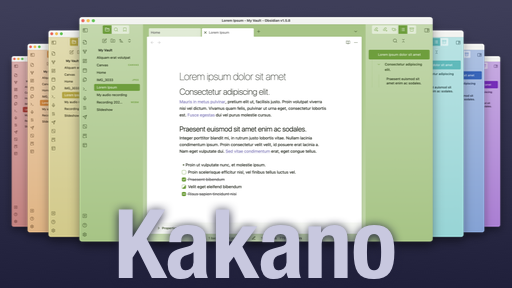
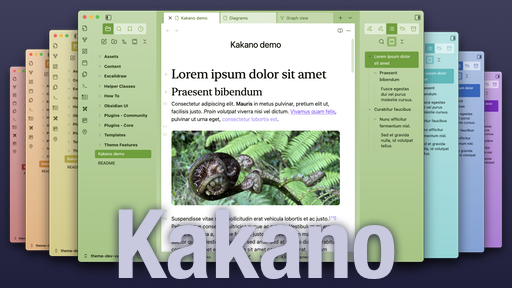
Improve screenshot and hero images

diff --git a/README.md b/README.md
@@ -1,8 +1,8 @@
 # Kakano
 
-![Obsidian theme with a smooth gradient background derived from a user-selected base color. Image shows six screenshots with differently-colored backgrounds.](/hero.png)
+![Kakano. A colorful, clean, and easy-to-use theme. Seven screenshots with differently-colored backgrounds.](/hero.png)
 
-Kakano is an [Obsidian](https://obsidian.md/) theme with a smooth gradient background derived from a user-selected base color.
+Bring some color to your desktop. Kakano lets you choose a base color, and generates a clean consistent interface with a smooth gradient background. Compatible with a wide range of plugins, and full of little touches to improve your [Obsidian](https://obsidian.md/) experience.
 
 <div align="center">
   <a href="https://www.buymeacoffee.com/isaacfreeman">
@@ -38,6 +38,7 @@ Kakano is an [Obsidian](https://obsidian.md/) theme with a smooth gradient backg
   - [Roadmap](#roadmap)
   - [About](#about)
   - [Credits](#credits)
+  - [Feedback](#feedback)
   - [License](#license)
   - [Disclaimer](#disclaimer)
 
@@ -60,13 +61,13 @@ Kakano is an [Obsidian](https://obsidian.md/) theme with a smooth gradient backg
 ## Principles
 
 - **Strong color**
-  Users should be able to easily select a color for each vault and have the theme generate shades and gradients automatically.
+  When Obsidian is at the core of your workflow, you want to be able to quickly locate its window. Kakano's design begins with the ability to choose a base color for the background so Obsidian stands out visually from other windows. If you have different vaults for different areas of your life, you can give them a strong color distinction. Kakano generates shades and gradients of the base color automatically.
 - **Help new users**
-  Obsidian can be intimidating for new users. I think a good way to help with this is to clarify which parts of the window are user content (white background, strong contrast) and which are navigation and other controls (colored background, lower contrast).
+  Obsidian can be intimidating for new users. I think a good way to help with this is to clarify which parts of the window are your content (white background, strong contrast) and which are navigation and other controls (colored background, lower contrast). Making Obsidian easier for new users also reduces cognitive load and distraction for more experienced users.
 - **Standardise controls**
   Obsidian’s exuberant plugin scene is fantastic, but it also means that there’s a lot of inconsistency in the design of controls and modals – even between core plugins. I’ve tried to find ways to make similar controls have similar appearance. Likewise, I’ve aimed to follow conventions from the underlying OS, such as having close controls on the left on macOS.
 - **Be opinionated enough**
-  I’d like Kakano to provide a great user experience by default without the user having to make any choices beyond their base color. It has settings, but I want each one to be there because different users genuinely have different needs, not just because I failed to make a decision.
+  Kakano is intended to be a theme, not a build-your-own-theme kit. I've aimed to provide a great user experience, and make design choices that look good and work well by default. There are plenty of useful settings for areas where different people have different needs, but not to fundamentally change the design.
 
 ## Features
 
@@ -164,7 +165,7 @@ Sets a base color that will be used by Kakano independently of the accent color.
 ### Editing settings
 - **Highlight active line**
   Show a background color behind the active line while editing.
-- **Line number sin code blocks**
+- **Line numbers in code blocks**
   Toggle whether code blocks should show line numbers
 ### Mobile settings
 - **Mobile horizontal spacing**
@@ -176,11 +177,24 @@ Sets a base color that will be used by Kakano independently of the accent color.
   Kakano has built-in styles for alternative checkboxes, but some users may prefer to use their own CSS snippets that work across multiple themes. This setting can disable the built-in alternative checkboxes to ensure that they don't clash with the snippet.
 
 ## Helper Classes
-Kakano provides heklper classes to modify notes
-| Helper class | Description |
-|---|---|
-| `cards` | Make tables generated by the Dataview plugin to appear as a set of cards. |
-| `list-cards` | Make bullet lists appear as a set of cards when the note is in Reading view |
+Kakano provides helper classes to modify how notesappear.
+<table>
+<thead>
+<tr>
+<th>Helper class</th>
+<th>Description</th>
+</thead>
+<tbody>
+<tr>
+<td>`cards`</td>
+<td>Make tables generated by the Dataview plugin appear as a set of cards.</td>
+</tr>
+<tr>
+<td>`list-cards`</td>
+<td>Make bullet lists appear as a set of cards when the note is in Reading view</td>
+</tr>
+</tbody>
+</table>
 
 
 ## Plugin support
@@ -229,18 +243,6 @@ Kakano has specific styling for the following plugins:
 - Table Editor
 - Tasks
 
-## Roadmap
-
-Kakano is a one-person hobby. I'm having a great time exploring what Obsidian can do, and how far CSS has come in recent years. I want to sweat the details and apply good usability practices, but it's also something I'm doing for fun. Sometimes I'll change things on a whim, or focus on obscure areas of the UI because they present interesting challenges.
-
-There are, however, some key areas I want to improve:
-
-1. Support for all the core plugins. I still need to work on Publish, as I don't use it personally.
-2. Support for the most popular community plugins. Currently I'm aiming at the ones with over 500K downloads.
-3. Dark mode. At the moment it's mostly just an inverse of light mode, but I'd like to give it specific attention.
-4. Mobile.
-5. Support widely-used features from other themes. I'd like to be easy to switch to and from Kakano.
-
 ## About
 I'm Isaac Freeman, a software developer in Aotearoa/New Zealand. I love to explore usability and design.
 
@@ -254,18 +256,21 @@ _Kakano_ means "color" in the Te Reo Māori – the Māori language of New Zeala
 ## Credits
 - [Damian Korcz](https://github.com/damiankorcz) started the [Alternative Checkboxes Reference Set project](https://github.com/damiankorcz/Alternative-Checkboxes-Reference-Set).
 - [incantatem1](https://github.com/incantatem1) suggested a separate line length for Reading View.
-- [Ryan Johnson](linkedin.com/in/rydavjohnson) suggested the setting to hide titles for embedded notes, and the ability to pin embdded backlinks.
+- [Ryan Johnson](linkedin.com/in/rydavjohnson) suggested the setting to hide titles for embedded notes, and the ability to pin embedded backlinks.
 - [WinnerWind](https://winnerwind.github.io) suggested the Mobile horizontal spacing setting, and assisted with debugging for Windows.
 - The [AnuPpuccin](https://github.com/AnubisNekhet/AnuPpuccin) theme by [Anubis](https://github.com/AnubisNekhet) provided the idea of adding icons to sections in Style Settings.
 - The [MagicUser](https://github.com/drbap/magicuser-theme-for-obsidian) theme by [Bernardo Pires](https://github.com/drbap) provided the idea of making selected modals resizeable.
 - The [Minimal](https://github.com/kepano/obsidian-minimal) theme by [Kepano](https://github.com/kepano) provided the idea of a card layout for the Dataview Plugin. I've also used a consistent card layout appearance for the Folder Note plugin.
 
+## Feedback
+Feedback is welcome! I'm interested in how different people use Kakano, and open to making adjustments to support different needs. If you think there's something missing or not working how you'd prefer, add an issue to the [Github repository](https://github.com/isaacfreeman/kakano-obsidian-theme/issues) and I'll think about how to incorporate your needs into the Kakano design.
+
 ## License
 Kakano is licensed under the MIT License which allows you to modify and redistribute the code, however you must preserve the copyright and license notice in your CSS file. This includes any code you may extract as standalone snippets.
 
 ## Disclaimer
-Kakano theme is provided as is, as a one-person hobby project I work on in my spare time. I use it on macOS and iOS, and it's not tested on other platforms. I always appreciate bug reports and suggestions, and I'll endeavour to fix problems as I hear of them, and as time permits.
+Kakano theme is provided as is, as a one-person hobby project I work on in my spare time. I'm having a great time exploring what Obsidian can do, and how far CSS has come in recent years. I try to sweat the details and apply good usability practices, but fundamentally this is something I'm doing for fun. Sometimes I'll change things on a whim, or focus on obscure areas of the UI because they present interesting challenges.
 
 There are great themes for Obsidian that provide detailed settings for many aspects of the user interface, but the path I'm taking here is to reduce the number of choices users need to make. I enjoy and appreciate feedback and suggestions from users, but I may decide that some good ideas aren't Kakano ideas.
 
-Some of the choices I've made in Kakano may not be compatible with future updates to Obsidian, nor with custom CSS snippets. I'm aiming to keep it up to date but again, no promises.
+I use Obsidian on macOS and iOS, and seldom test Kakano on other platforms. I appreciate bug reports and suggestions, and I'll endeavour to fix problems as I hear of them.
